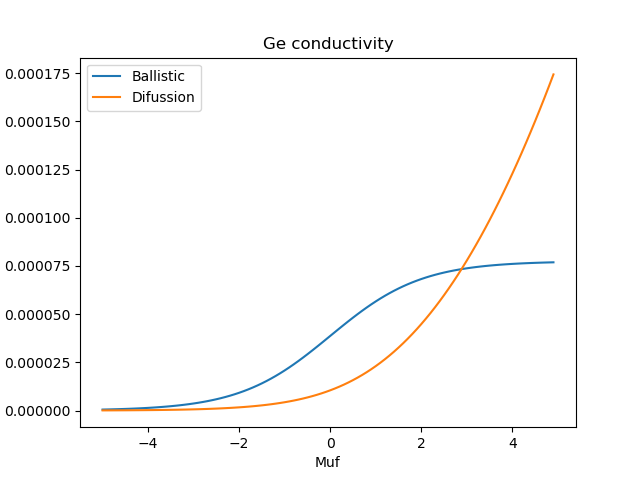
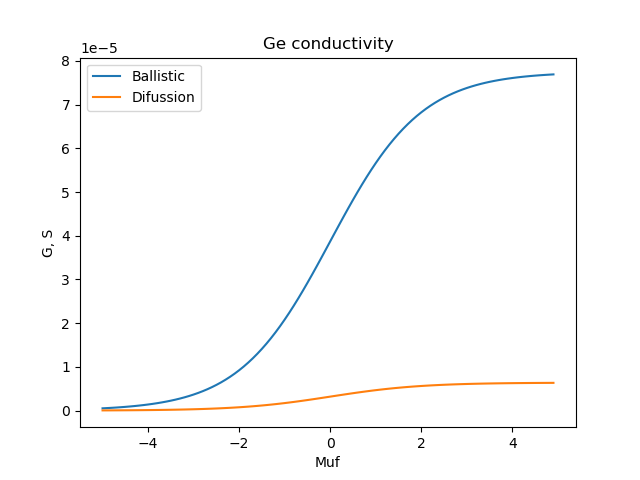
Commit.

diff --git a/FermiDiracIntegral.py b/FermiDiracIntegral.py
@@ -2,6 +2,7 @@ from math import exp, gamma
 from scipy import integrate
 import numpy as np
 
+
 class FermiDiracIntegral:
     @staticmethod
     def FermiFunction(Mu, Muf, j):
@@ -11,10 +12,18 @@ class FermiDiracIntegral:
             return ((Mu ** j) * exp(Muf - Mu)) / (exp(Muf - Mu) + 1)
 
     @staticmethod
+    def GetValue(j, Muf):
+        if(j == -1):
+            return FermiDiracIntegral.MinusOne(Muf)
+        else:
+            return FermiDiracIntegral.CommonIntegral(j, Muf)
+
+    @staticmethod
     def MinusOne(x):
         return 1 / (exp(-x) + 1)
 
     @staticmethod
     def CommonIntegral(j, Muf):
-        i, e = integrate.quad(FermiDiracIntegral.FermiFunction, 0, np.inf, args=(Muf, j))
+        i, e = integrate.quad(
+            FermiDiracIntegral.FermiFunction, 0, np.inf, args=(Muf, j))
         return 1 / (gamma(j + 1)) * i

diff --git a/Conductivity.py b/Conductivity.py
@@ -17,13 +17,13 @@ class Conductivity:
     def Ballistic(self, range):
         ans = []
         for i in range:
-            ans.append(2 * (self.q ** 2) * (FermiDiracIntegral.MinusOne(i)) / self.h)
+            ans.append(2 * (self.q ** 2) * (FermiDiracIntegral.GetValue(-1, i)) / self.h)
 
         return ans
 
     def Difussion(self, range):
         ans = []
         for i in range:
-            ans.append(2 * (self.q ** 2) / self.h * (self.MFP / self.L) * gamma(self.r + 1) * FermiDiracIntegral.CommonIntegral(self.r - 1, i))
+            ans.append(2 * (self.q ** 2) / self.h * (self.MFP / self.L) * gamma(self.r + 1) * FermiDiracIntegral.GetValue(self.r - 1, i))
 
         return ans

diff --git a/main.py b/main.py
@@ -7,7 +7,7 @@ from constants.InSb import InSb
 #   Constants
 L = 1e-6
 T = 300
-r = 2
+r = 0
 
 def main():
     #   Init the range of plots
